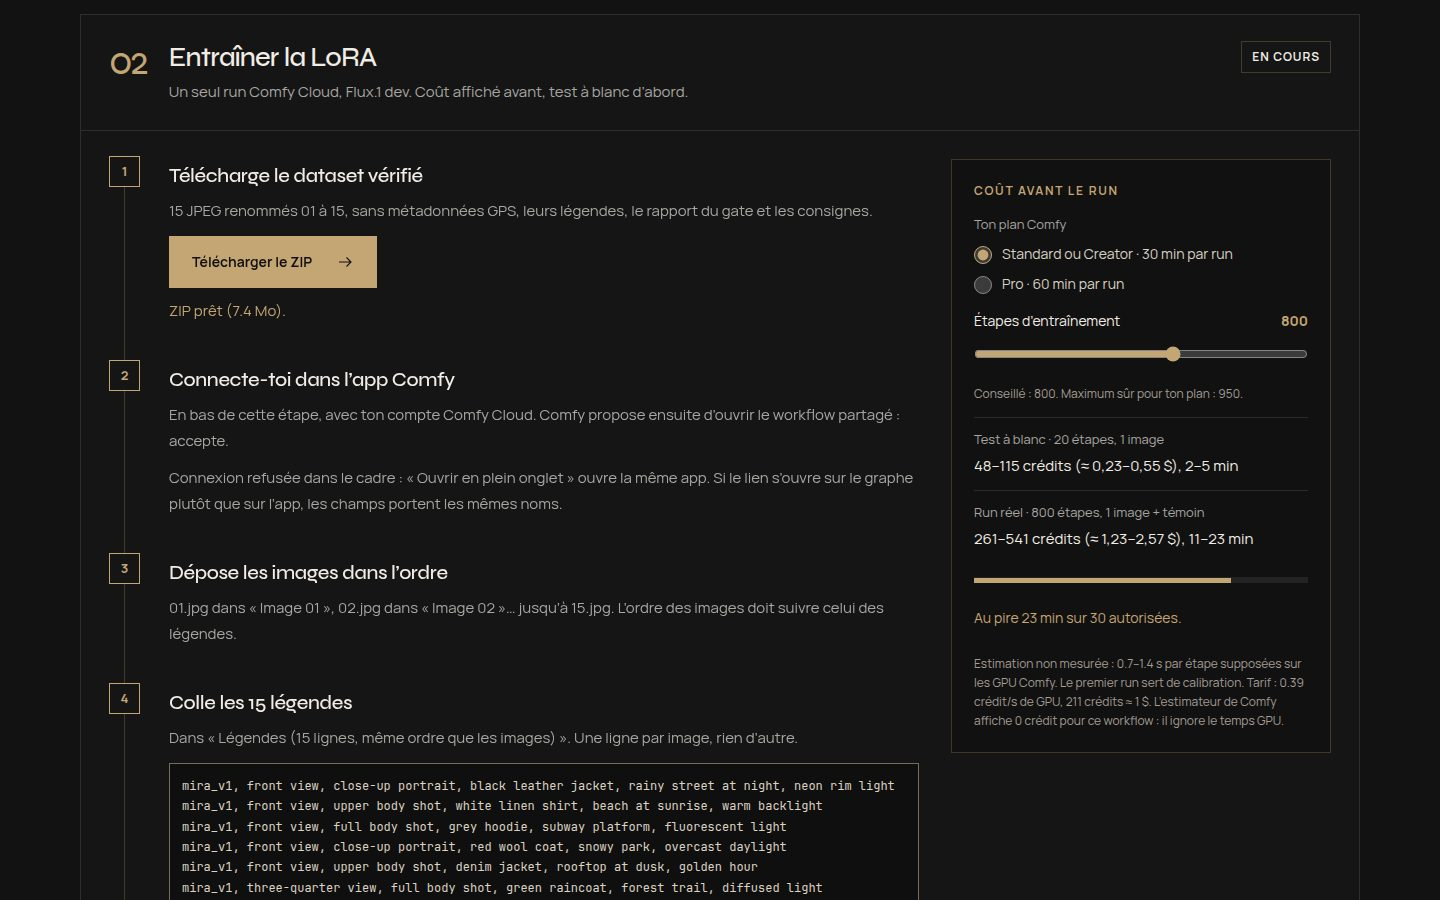
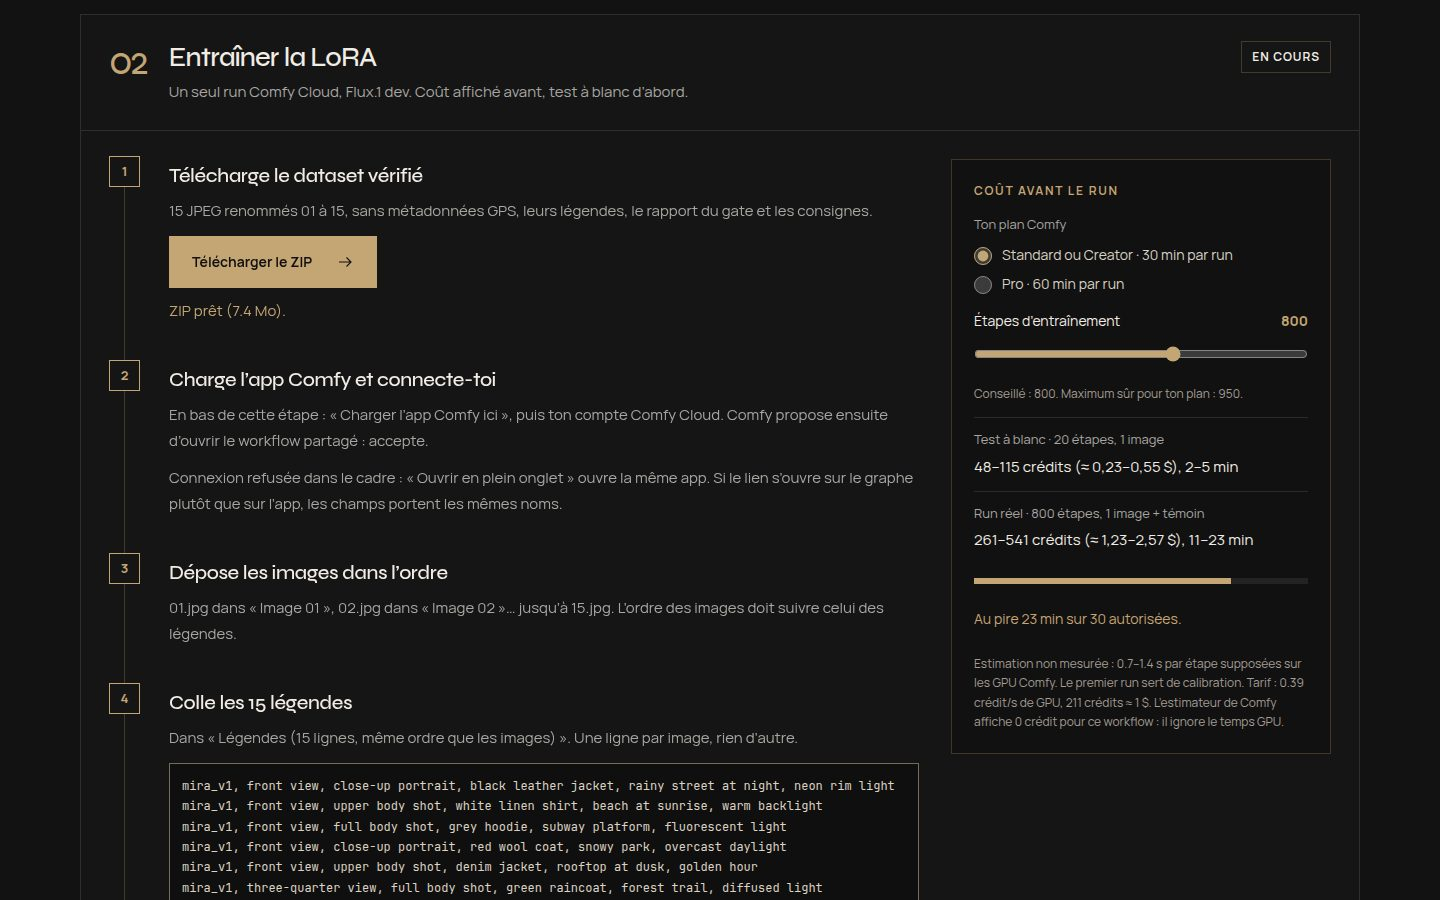
docs: record click-to-load checks, smoke notes and screenshots

diff --git a/docs/QA.md b/docs/QA.md
@@ -40,23 +40,36 @@ Jeu de test : 20 images synthétiques générées par ffmpeg. 15 compositions di
 
 ## Cadre Comfy dans le guide
 
-Vérification du 2026-09-24, branche `cursor/comfy-app-embed-1a7e`. Build GitHub Pages (`GITHUB_PAGES=true`, `NEXT_PUBLIC_BASE_PATH=/U-TTU-Studio`) servi sous le sous-chemin, en HTTPS local (certificat autosigné) puis en HTTP. Chrome headless, 15 images synthétiques jusqu’au PASS. Sans compte Comfy tiers, rien n’est vérifié après la page de connexion Comfy.
+Vérification du 2026-09-24, branche `cursor/comfy-click-to-load-1a7e` : chargement au clic, ajouté après le cadre de #2. Build GitHub Pages (`GITHUB_PAGES=true`, `NEXT_PUBLIC_BASE_PATH=/U-TTU-Studio`) servi sous le sous-chemin, en HTTPS local (certificat autosigné) puis en HTTP. Chrome headless, 15 images synthétiques jusqu’au PASS, clics souris réels, journal réseau de la page. Sans compte Comfy tiers, rien n’est vérifié après la page de connexion Comfy. Aucun run Comfy : 0 crédit.
 
 | Contrôle | Résultat |
 | --- | --- |
 | `npm test` (39/39), `npm run typecheck`, `npm run build`, build Pages | PASS |
-| Avant PASS : étapes 2 et 3 fermées, aucun iframe | PASS |
-| Après PASS : cadre de l’étape 2 sur `?share=798eb224b972`, cadre de l’étape 3 sur `?share=25954f3b0278`, 900 px de haut à 1 440 × 1 100 | PASS |
-| « Ouvrir en plein onglet » au-dessus de chaque cadre : même URL, `target="_blank"`, `rel="noopener noreferrer"` | PASS |
-| ZIP, « Copier les 15 lignes » et coût au-dessus du cadre ; panneaux collants « Coût avant le run » et « Lire le résultat » jamais par-dessus le cadre | PASS |
-| Note sous le cadre : compte et crédits du client, test à blanc d’abord, images locales jusqu’au dépôt, repli plein onglet | PASS |
-| HTTPS : Chrome charge `cloud.comfy.org` dans les deux cadres (page de connexion), `previousFullPath` garde chaque `?share=` | PASS |
-| HTTP : avertissement à la place du cadre, plein onglet conservé | PASS |
-| 390 et 320 px : pas de débordement horizontal ; cadre de 290 × 796 px à 390 px | PASS |
+| Avant PASS : étapes 2 et 3 fermées | PASS |
+| Après PASS, avant clic : aucun iframe, aucune requête vers `*.comfy.org` (journal réseau et Resource Timing), même après avoir fait défiler les deux panneaux | PASS |
+| Panneau avant chargement : ce qui va se charger (Comfy Cloud en mode app, `cloud.comfy.org`), traceurs tiers de Comfy, bouton « Charger l’app Comfy ici » | PASS |
+| « Ouvrir en plein onglet » disponible sans rien charger : même URL, `target="_blank"`, `rel="noopener noreferrer"` | PASS |
+| Clic sur « Charger l’app Comfy ici » à l’étape 2 : iframe sur `?share=798eb224b972`, 900 px de haut à 1 440 × 1 100, focus dans le cadre ; la première requête Comfy est ce partage ; Chrome charge la page de connexion Comfy, `previousFullPath` garde le `?share=` | PASS |
+| Charger l’étape 2 ne charge pas l’étape 3 | PASS |
+| « Recharger l’app » : nouvel iframe, même URL, nouvelle requête | PASS |
+| Étape 3 : même comportement, iframe sur `?share=25954f3b0278` | PASS |
+| ZIP, « Copier les 15 lignes » et coût au-dessus du panneau ; « Coût avant le run » et « Lire le résultat » jamais par-dessus les cadres chargés | PASS |
+| Note sous le panneau : compte et crédits du client, test à blanc d’abord, images locales jusqu’au dépôt, repli plein onglet | PASS |
+| HTTP : avertissement inchangé à la place du bouton, aucune requête vers `*.comfy.org` | PASS |
+| 390 et 320 px : pas de débordement horizontal, avant et après chargement | PASS |
 | Aucune trace de Look-Lock dans le HTML ; nav : Le piège, Le parcours, Le coût, Accès anticipé | PASS |
 | Aucune erreur JavaScript sur la page du studio | PASS |
 
-Défaut trouvé et corrigé : les panneaux collants « Coût avant le run » et « Lire le résultat » passaient par-dessus le cadre pendant le défilement. Le panneau Comfy est sorti de leur grille.
+Défaut trouvé et corrigé pendant #2 : les panneaux collants « Coût avant le run » et « Lire le résultat » passaient par-dessus le cadre pendant le défilement. Le panneau Comfy est sorti de leur grille.
+
+### Smoke manuel sur Pages
+
+1. Ouvrir https://enudimmud.github.io/U-TTU-Studio/, puis les outils de développement, onglet Réseau, filtre `comfy.org`.
+2. Amener le gate au PASS (15 images gardées). Les étapes 2 et 3 s’ouvrent ; le filtre reste vide.
+3. Étape 2 : « Charger l’app Comfy ici ». Le cadre affiche la connexion Comfy et le filtre montre `cloud.comfy.org`.
+4. Se connecter dans le cadre, puis accepter « Open shared workflow ». Attendu : l’App Mode avec Image 01 à 15, Légendes, Étapes d’entraînement, Prompt, Force LoRA, Seed et Nombre d’images.
+5. Connexion impossible dans le cadre : « Ouvrir en plein onglet » ouvre la même app. Le ZIP, les légendes et le coût restent dans l’onglet du studio.
+6. Étape 3 : même chose pour le test de prompt.
 
 ## Captures
 
@@ -66,7 +79,8 @@ Défaut trouvé et corrigé : les panneaux collants « Coût avant le run » et 
 | Gate PASS | [gate-pass-desktop.jpg](screenshots/gate-pass-desktop.jpg) |
 | Gate FAIL (G15) | [gate-fail-desktop.jpg](screenshots/gate-fail-desktop.jpg) |
 | Étape 2, coût | [train-step-desktop.jpg](screenshots/train-step-desktop.jpg) |
-| Étape 2, app Comfy dans la page | [comfy-panel-desktop.jpg](screenshots/comfy-panel-desktop.jpg) |
+| Étape 2, app Comfy avant le clic | [comfy-consent-desktop.jpg](screenshots/comfy-consent-desktop.jpg) |
+| Étape 2, app Comfy chargée | [comfy-panel-desktop.jpg](screenshots/comfy-panel-desktop.jpg) |
 | Étape 3 | [image-step-desktop.jpg](screenshots/image-step-desktop.jpg) |
 | Mobile | [hero-mobile.jpg](screenshots/hero-mobile.jpg), [guide-mobile.jpg](screenshots/guide-mobile.jpg) |
 

diff --git a/docs/COMFY-STACK.md b/docs/COMFY-STACK.md
@@ -78,12 +78,13 @@ UNETLoader, encodeurs Flux, `CLIPTextEncode`, FluxGuidance, KSampler (seed parta
 
 ## Affichage dans le guide
 
-Après PASS, `ComfyRunPanel` affiche `COMFY_APPS.train.url` en bas de l’étape 2 et `COMFY_APPS.prompt.url` en bas de l’étape 3, dans un iframe de 640 à 900 px de haut. Le ZIP, les légendes et le coût restent au-dessus. Le client dépose toujours lui-même les 15 images et colle les légendes dans Comfy. « Ouvrir en plein onglet », même URL, est au-dessus de chaque cadre.
+Après PASS, `ComfyRunPanel` propose `COMFY_APPS.train.url` en bas de l’étape 2 et `COMFY_APPS.prompt.url` en bas de l’étape 3. Rien n’est chargé depuis `cloud.comfy.org` avant un clic sur « Charger l’app Comfy ici » : le panneau dit ce qui va se charger et que Comfy peut charger ses propres traceurs. Au clic, un iframe de 640 à 900 px de haut remplace ce panneau ; « Recharger l’app » le recrée. Chaque étape se charge séparément. Le ZIP, les légendes et le coût restent au-dessus. Le client dépose toujours lui-même les 15 images et colle les légendes dans Comfy. « Ouvrir en plein onglet », même URL, reste au-dessus de chaque panneau, chargé ou non.
 
 | Fait (2026-09-24) | Source | Conséquence |
 | --- | --- | --- |
-| `cloud.comfy.org` envoie `frame-ancestors 'self' https:`, sans `X-Frame-Options`. | En-têtes HTTP | Cadre accepté depuis GitHub Pages. Refusé depuis une page HTTP, dont `next dev` : le panneau affiche un avertissement à la place du cadre. |
-| Dans Chrome, les deux cadres chargent la page de connexion Comfy ; chaque `?share=` reste dans `previousFullPath`. | Smoke sur le build Pages ([QA.md](QA.md#cadre-comfy-dans-le-guide)) | L’embed fonctionne jusqu’à la connexion, et chaque cadre garde son workflow. |
+| La page de connexion Comfy appelle `www.googleadservices.com` et `px.ads.linkedin.com`. | Journal réseau Chrome | Chargement au clic seulement : sans action du visiteur, ni Comfy ni ses traceurs ne sont contactés (consentement, visiteurs CH/UE). |
+| `cloud.comfy.org` envoie `frame-ancestors 'self' https:`, sans `X-Frame-Options`. | En-têtes HTTP | Cadre accepté depuis GitHub Pages. Refusé depuis une page HTTP, dont `next dev` : le panneau affiche un avertissement à la place du bouton de chargement. |
+| Dans Chrome, après le clic, chaque cadre charge la page de connexion Comfy ; son `?share=` reste dans `previousFullPath`. | Smoke sur le build Pages ([QA.md](QA.md#cadre-comfy-dans-le-guide)) | L’embed fonctionne jusqu’à la connexion, et chaque cadre garde son workflow. |
 | Après connexion, un `?share=` ouvre la fenêtre « Open shared workflow », puis charge le graphe dans la vue donnée par `extra.linearMode`. | Frontend Comfy : `useSharedWorkflowUrlLoader.ts`, `workflowService.ts` | Les deux snapshots ont `linearMode: true` : App Mode attendu. Liens non régénérés. |
 | La session Comfy (Firebase) est gardée dans le localStorage et l’IndexedDB de `cloud.comfy.org`. | Frontend Comfy : `firebaseIdentity.ts` | Ce stockage est partitionné dans un cadre tiers : le client se connecte une fois dans le cadre, même s’il l’est déjà dans un autre onglet. |
 

diff --git a/docs/DECISIONS.md b/docs/DECISIONS.md
@@ -15,6 +15,7 @@ Registre de vérité U*TTU : chaque ligne est un **fait**, une **hypothèse**, u
 | FAIL réservé aux violations ; information manquante en « À faire » ; PASS exige tout en PASS. | Livraison, après QA | 2026-09-24 |
 | Aucun crédit Comfy dépensé pendant la livraison. Premier run = calibration par JD. | Livraison | 2026-09-24 |
 | Après PASS, les deux apps Comfy s’affichent dans la page (iframe), avec « Ouvrir en plein onglet » au-dessus de chaque cadre. Pas de proxy, pas de crédits Studio, pas de préremplissage des 15 images. Ne débloque pas la vente. | Livraison | 2026-09-24 |
+| Cadres Comfy chargés au clic seulement (« Charger l’app Comfy ici ») : Comfy charge ses propres traceurs, il faut le consentement des visiteurs CH/UE. « Ouvrir en plein onglet » reste disponible sans charger le cadre. | JD | 2026-09-24 |
 
 ## Faits
 
@@ -24,7 +25,8 @@ Registre de vérité U*TTU : chaque ligne est un **fait**, une **hypothèse**, u
 - Les deux workflows passent la validation `submit_workflow` en `dry_run`. Ils sont sauvegardés dans le workspace Comfy (records `e8d7c649…` et `d5746aa7…`, version 2 avec App Mode) et partagés en `?share=798eb224b972` et `?share=25954f3b0278`.
 - Les graphes versionnés dans `public/comfy/` correspondent au générateur, lien par lien et valeur par valeur (`tests/comfy.test.ts`).
 - QA E2E sur Chrome avec 20 images synthétiques : chaque piège est signalé, le PASS n’arrive qu’avec 15 images propres, le ZIP est valide ([QA.md](QA.md)).
-- `cloud.comfy.org` envoie `frame-ancestors 'self' https:`, sans `X-Frame-Options` (2026-09-24). Chrome affiche la connexion Comfy dans les cadres du guide servi en HTTPS ; une page HTTP est refusée ([QA.md](QA.md#cadre-comfy-dans-le-guide)).
+- `cloud.comfy.org` envoie `frame-ancestors 'self' https:`, sans `X-Frame-Options` (2026-09-24). Après le clic, Chrome affiche la connexion Comfy dans les cadres du guide servi en HTTPS ; une page HTTP est refusée ([QA.md](QA.md#cadre-comfy-dans-le-guide)).
+- La page de connexion Comfy appelle `www.googleadservices.com` et `px.ads.linkedin.com` (journal réseau Chrome, 2026-09-24). Avant le clic sur « Charger l’app Comfy ici », le guide ne contacte aucun domaine `comfy.org`.
 - Frontend Comfy (`useSharedWorkflowUrlLoader.ts`, `workflowService.ts`) : un `?share=` passe par la connexion, puis la fenêtre « Open shared workflow », puis charge le graphe dans la vue donnée par `extra.linearMode`. Les snapshots `798eb224b972` et `25954f3b0278` ont `linearMode: true`.
 
 ## Hypothèses — à mesurer

diff --git a/README.md b/README.md
@@ -56,7 +56,7 @@ npm run dev          # http://localhost:3000
 
 Le **test à blanc** n’est pas un troisième workflow. C’est le premier, lancé avec 20 étapes et 1 image, qui sont ses valeurs par défaut. Les images déposées restent en place pour le vrai run.
 
-Après un PASS du gate, le guide affiche ces deux apps dans la page. « Ouvrir en plein onglet » reste au-dessus de chaque cadre : la connexion Comfy dans un iframe n’est pas garantie, et une page HTTP, dont `next dev`, ne peut pas encadrer Comfy. Pour voir les cadres en local, servir le build en HTTPS.
+Après un PASS du gate, le guide propose ces deux apps dans la page. Rien n’est chargé depuis Comfy avant un clic sur « Charger l’app Comfy ici », parce que Comfy charge ses propres traceurs. « Ouvrir en plein onglet » reste au-dessus de chaque panneau : la connexion Comfy dans un iframe n’est pas garantie, et une page HTTP, dont `next dev`, ne peut pas encadrer Comfy. Pour voir les cadres en local, servir le build en HTTPS.
 
 ### Créer les workflows dans Comfy Cloud
 
